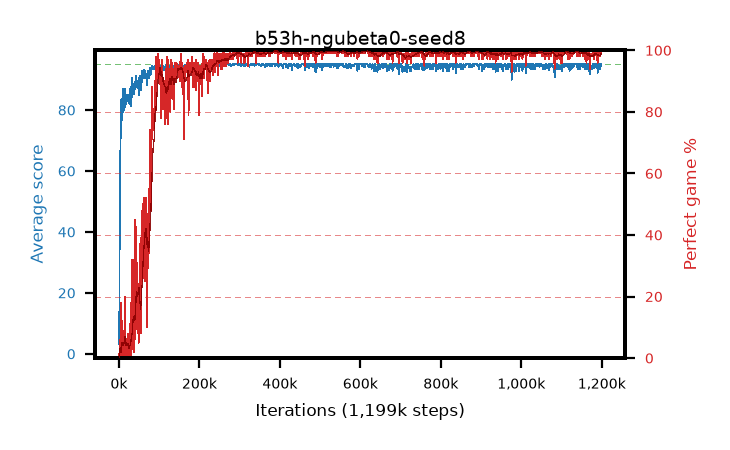
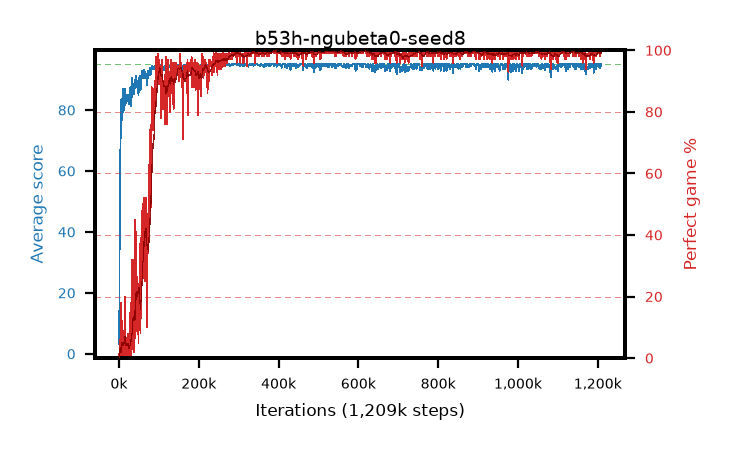
live pictures of 4 arm(s)

diff --git a/results/b53f-ngubeta0-seed6/b53f-ngubeta0-seed6.md b/results/b53f-ngubeta0-seed6/b53f-ngubeta0-seed6.md
@@ -1,6 +1,6 @@
 # b53f-ngubeta0-seed6
 
-step **1,179,000** · 1179 evals · trailing **94.61** · peak **94.99** @323,000 · sef **88.5** · best30 **99.8** @323,000
+step **1,189,000** · 1189 evals · trailing **94.67** · peak **94.99** @323,000 · sef **88.6** · best30 **99.8** @323,000
 
 ## Config
 
@@ -80,15 +80,15 @@ step **1,179,000** · 1179 evals · trailing **94.61** · peak **94.99** @323,00
 | 2000 | 35.17 | 18.16 | 10.0 | 67.0 | 29.965 | 0.0 | 0.4 |
 | 3000 | 47.63 | 27.98 | 1.0 | 93.0 | 42.642 | 0.0 | 0.4 |
 | ... | ... | ... | ... | ... | ... | ... | ... |
-| 1168000 | 95.0 | 94.51 | 95.0 | 95.0 | 193.776 | 100.0 | 0.4 |
-| 1169000 | 95.0 | 94.54 | 95.0 | 95.0 | 193.789 | 100.0 | 0.4 |
-| 1170000 | 95.0 | 94.54 | 95.0 | 95.0 | 193.781 | 100.0 | 0.4 |
-| 1171000 | 95.0 | 94.6 | 95.0 | 95.0 | 193.794 | 100.0 | 0.4 |
-| 1172000 | 95.0 | 94.65 | 95.0 | 95.0 | 193.788 | 100.0 | 0.4 |
-| 1173000 | 95.0 | 94.71 | 95.0 | 95.0 | 193.79 | 100.0 | 0.4 |
-| 1174000 | 94.26 | 94.68 | 21.0 | 95.0 | 192.011 | 99.0 | 0.4 |
-| 1175000 | 95.0 | 94.68 | 95.0 | 95.0 | 193.783 | 100.0 | 0.4 |
-| 1176000 | 95.0 | 94.68 | 95.0 | 95.0 | 193.783 | 100.0 | 0.4 |
-| 1177000 | 94.27 | 94.66 | 22.0 | 95.0 | 192.017 | 99.0 | 0.4 |
 | 1178000 | 94.33 | 94.64 | 28.0 | 95.0 | 192.079 | 99.0 | 0.4 |
 | 1179000 | 94.21 | 94.61 | 16.0 | 95.0 | 191.961 | 99.0 | 0.4 |
+| 1180000 | 95.0 | 94.67 | 95.0 | 95.0 | 193.789 | 100.0 | 0.4 |
+| 1181000 | 95.0 | 94.76 | 95.0 | 95.0 | 193.792 | 100.0 | 0.4 |
+| 1182000 | 95.0 | 94.76 | 95.0 | 95.0 | 193.787 | 100.0 | 0.4 |
+| 1183000 | 93.53 | 94.71 | 18.0 | 95.0 | 190.245 | 98.0 | 0.4 |
+| 1184000 | 95.0 | 94.76 | 95.0 | 95.0 | 193.787 | 100.0 | 0.4 |
+| 1185000 | 94.28 | 94.74 | 23.0 | 95.0 | 192.029 | 99.0 | 0.4 |
+| 1186000 | 94.22 | 94.71 | 17.0 | 95.0 | 191.972 | 99.0 | 0.4 |
+| 1187000 | 94.95 | 94.71 | 90.0 | 95.0 | 192.7 | 99.0 | 0.4 |
+| 1188000 | 94.43 | 94.69 | 38.0 | 95.0 | 192.176 | 99.0 | 0.4 |
+| 1189000 | 94.3 | 94.67 | 25.0 | 95.0 | 192.049 | 99.0 | 0.4 |

diff --git a/results/b53h-ngubeta0-seed8/b53h-ngubeta0-seed8.md b/results/b53h-ngubeta0-seed8/b53h-ngubeta0-seed8.md
@@ -1,6 +1,6 @@
 # b53h-ngubeta0-seed8
 
-step **1,199,000** · 1199 evals · trailing **94.21** · peak **94.92** @356,000 · sef **92.2** · best30 **99.7** @539,000
+step **1,209,000** · 1209 evals · trailing **94.37** · peak **94.92** @356,000 · sef **92.2** · best30 **99.7** @539,000
 
 ## Config
 
@@ -80,15 +80,15 @@ step **1,199,000** · 1199 evals · trailing **94.21** · peak **94.92** @356,00
 | 2000 | 50.19 | 26.7 | 2.0 | 95.0 | 51.185 | 6.0 | 0.4 |
 | 3000 | 57.71 | 37.03 | 27.0 | 95.0 | 54.481 | 2.0 | 0.4 |
 | ... | ... | ... | ... | ... | ... | ... | ... |
-| 1188000 | 94.21 | 94.25 | 24.0 | 95.0 | 189.91 | 97.0 | 0.4 |
-| 1189000 | 94.08 | 94.22 | 35.0 | 95.0 | 189.746 | 97.0 | 0.4 |
-| 1190000 | 92.27 | 94.13 | 20.0 | 95.0 | 186.893 | 96.0 | 0.4 |
-| 1191000 | 95.0 | 94.16 | 95.0 | 95.0 | 193.786 | 100.0 | 0.4 |
-| 1192000 | 94.38 | 94.19 | 33.0 | 95.0 | 192.119 | 99.0 | 0.4 |
-| 1193000 | 94.19 | 94.19 | 14.0 | 95.0 | 191.931 | 99.0 | 0.4 |
-| 1194000 | 95.0 | 94.19 | 95.0 | 95.0 | 193.779 | 100.0 | 0.4 |
-| 1195000 | 94.23 | 94.21 | 18.0 | 95.0 | 191.976 | 99.0 | 0.4 |
-| 1196000 | 93.31 | 94.16 | 4.0 | 95.0 | 190.004 | 98.0 | 0.4 |
-| 1197000 | 95.0 | 94.16 | 95.0 | 95.0 | 193.788 | 100.0 | 0.4 |
 | 1198000 | 94.28 | 94.14 | 23.0 | 95.0 | 192.024 | 99.0 | 0.4 |
 | 1199000 | 95.0 | 94.21 | 95.0 | 95.0 | 193.786 | 100.0 | 0.4 |
+| 1200000 | 94.31 | 94.24 | 26.0 | 95.0 | 192.046 | 99.0 | 0.4 |
+| 1201000 | 94.47 | 94.32 | 42.0 | 95.0 | 192.213 | 99.0 | 0.4 |
+| 1202000 | 94.14 | 94.32 | 9.0 | 95.0 | 191.88 | 99.0 | 0.4 |
+| 1203000 | 95.0 | 94.36 | 95.0 | 95.0 | 193.783 | 100.0 | 0.4 |
+| 1204000 | 94.31 | 94.39 | 26.0 | 95.0 | 192.053 | 99.0 | 0.4 |
+| 1205000 | 94.38 | 94.4 | 34.0 | 95.0 | 191.082 | 98.0 | 0.4 |
+| 1206000 | 93.61 | 94.4 | 21.0 | 95.0 | 190.311 | 98.0 | 0.4 |
+| 1207000 | 94.63 | 94.39 | 58.0 | 95.0 | 192.375 | 99.0 | 0.4 |
+| 1208000 | 95.0 | 94.39 | 95.0 | 95.0 | 193.787 | 100.0 | 0.4 |
+| 1209000 | 94.28 | 94.37 | 23.0 | 95.0 | 192.022 | 99.0 | 0.4 |
